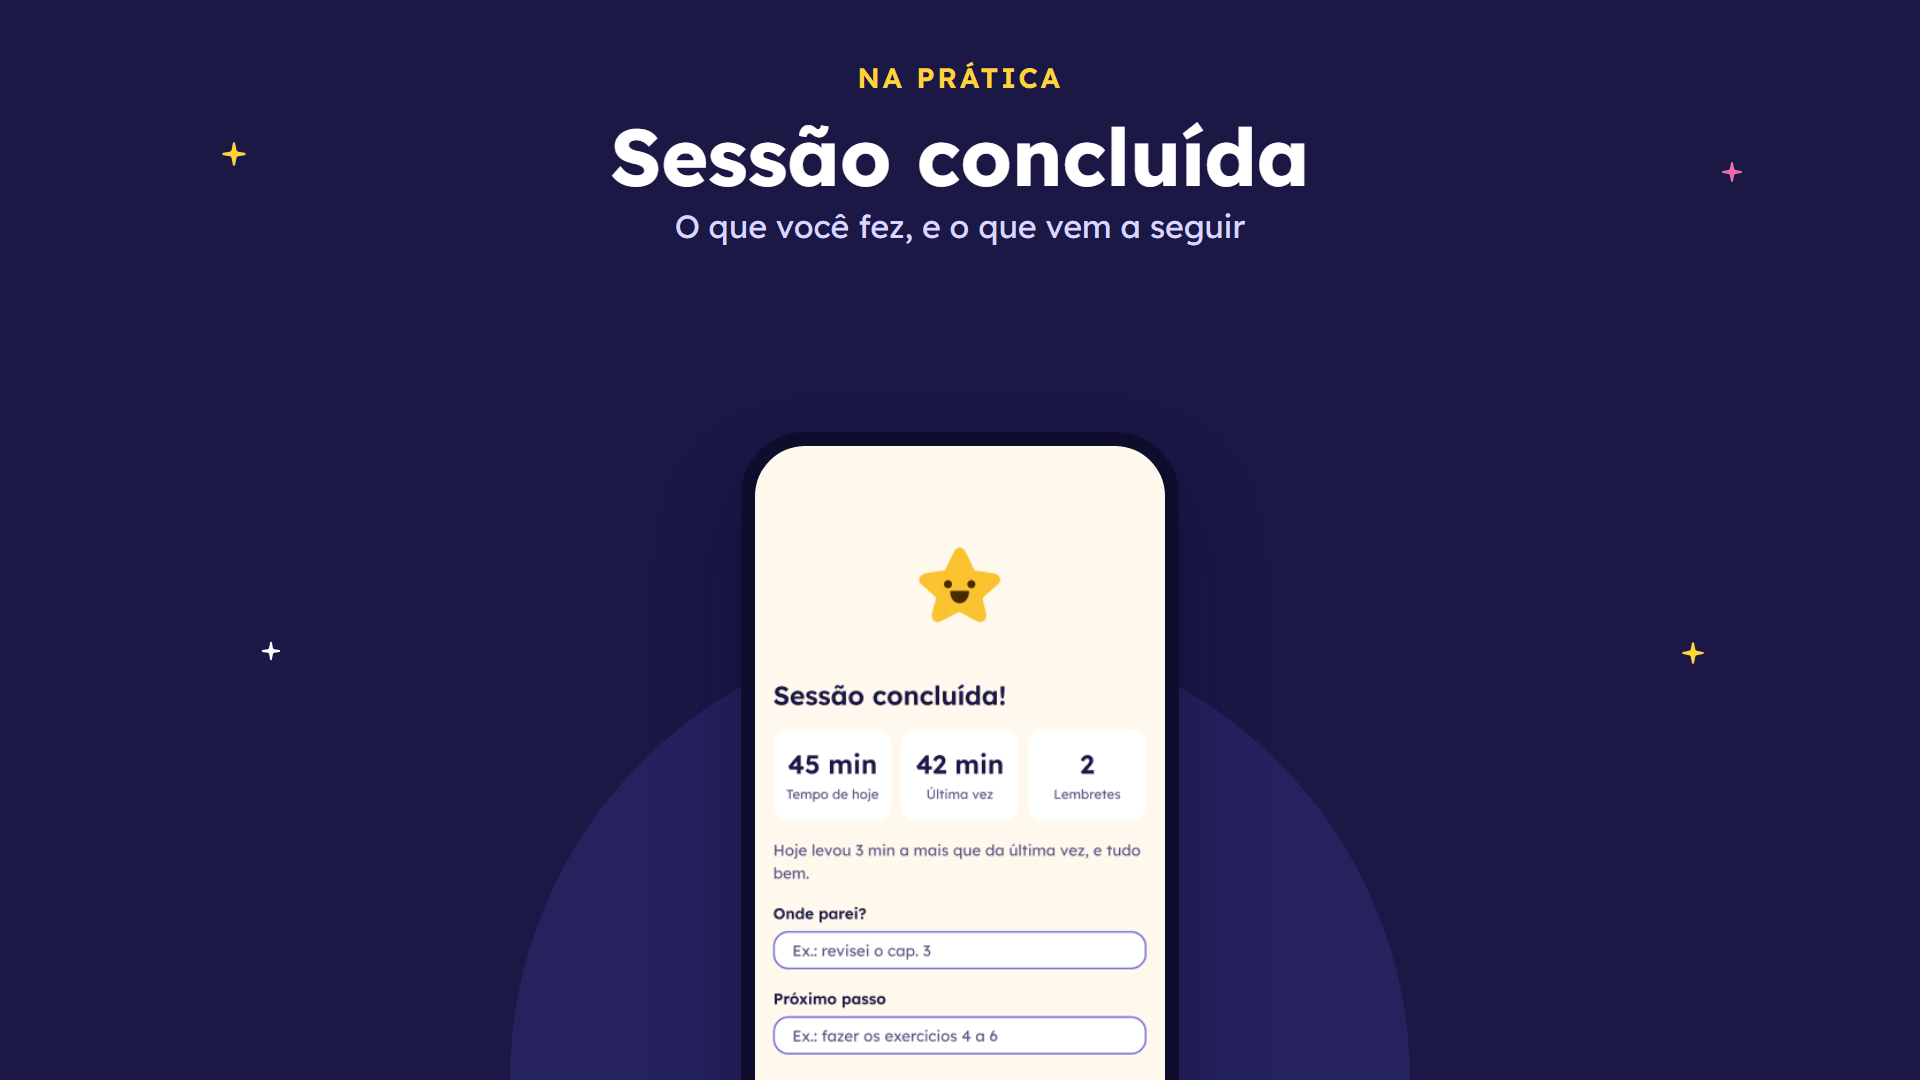
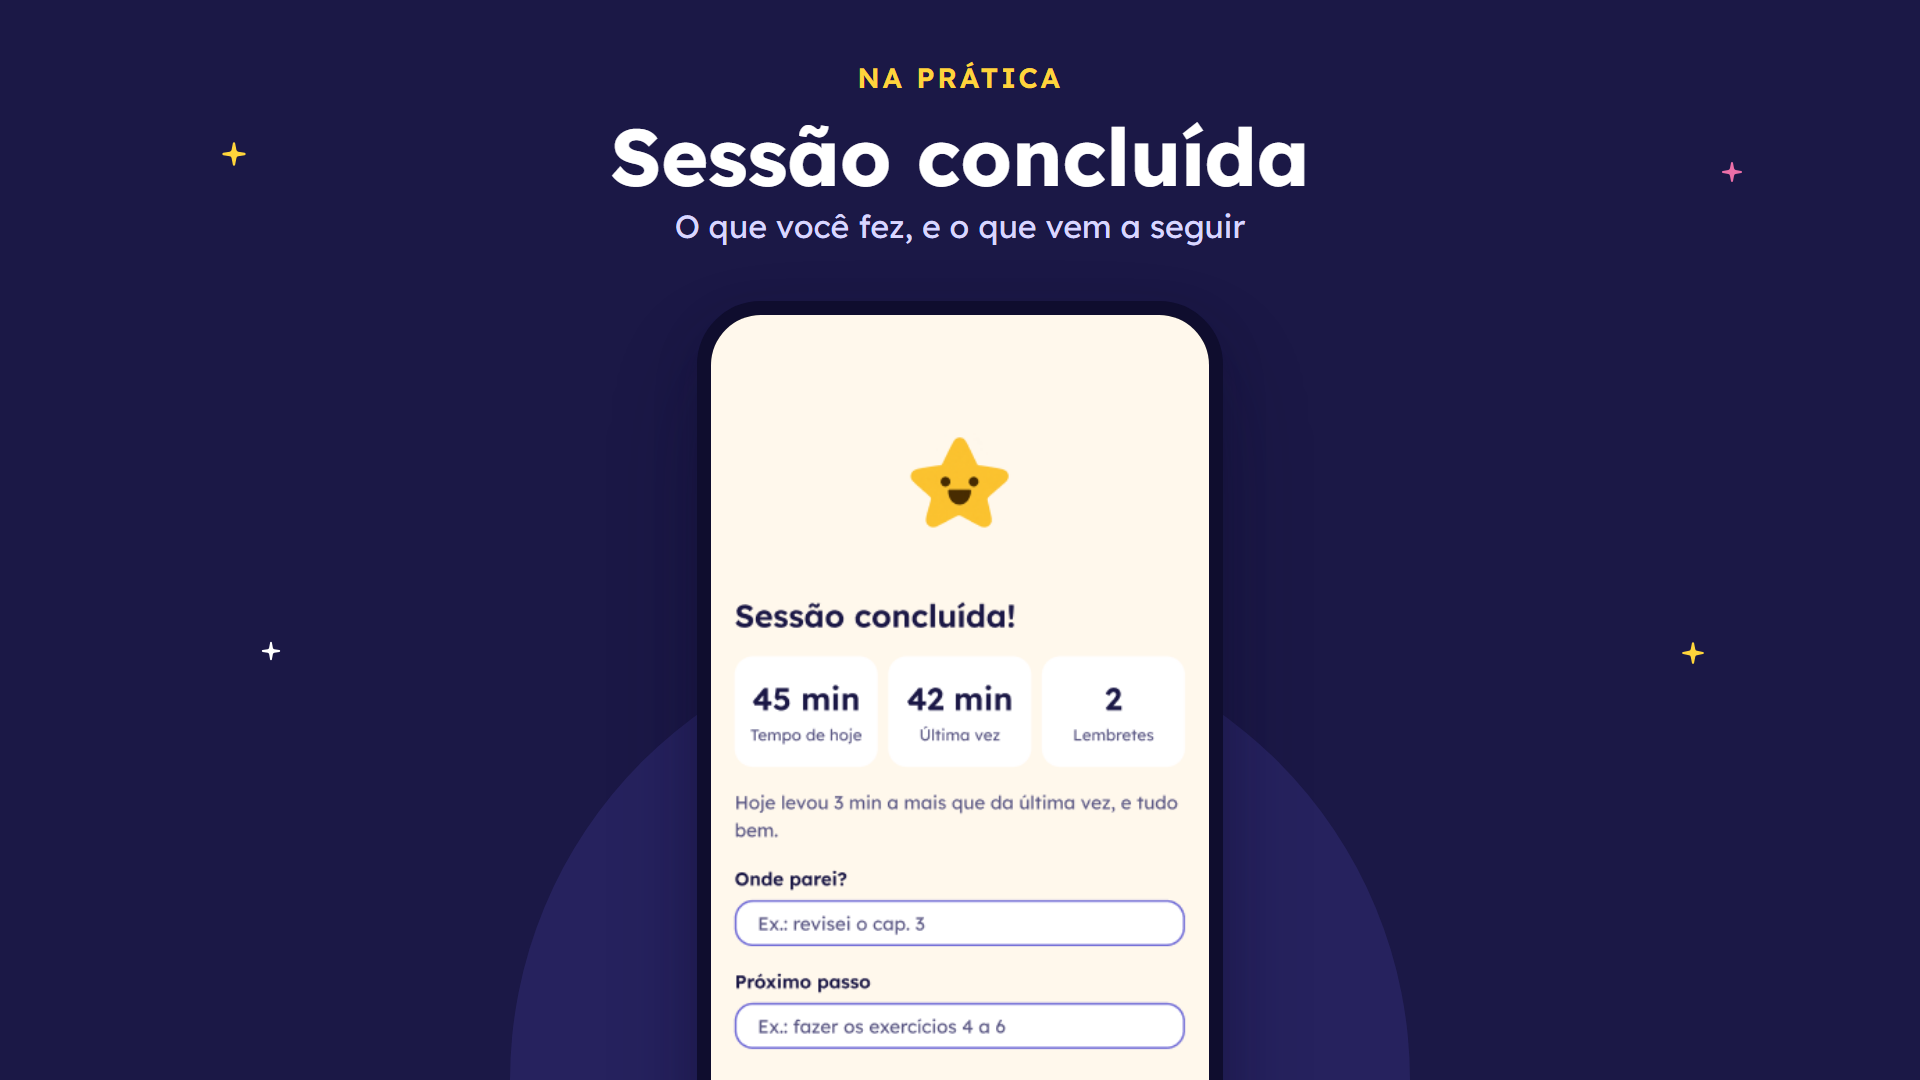
Aumenta e sobe o celular no slide da tela 06

Changed region(s): [[0.3438, 0.275, 0.6562, 1.0]]

diff --git a/video-editor/slides-src/anotar_tela02.py b/video-editor/slides-src/anotar_tela02.py
@@ -367,7 +367,7 @@ def build_slide_lembrar_depois():
 # ---------------------------------------------------------------------------
 
 def build_slide_sessao_concluida():
-    phone_h = 950
+    phone_h = 1140
     phone_w = phone_geometry(phone_h)[0]
     phone_left = (W - phone_w) // 2
 
